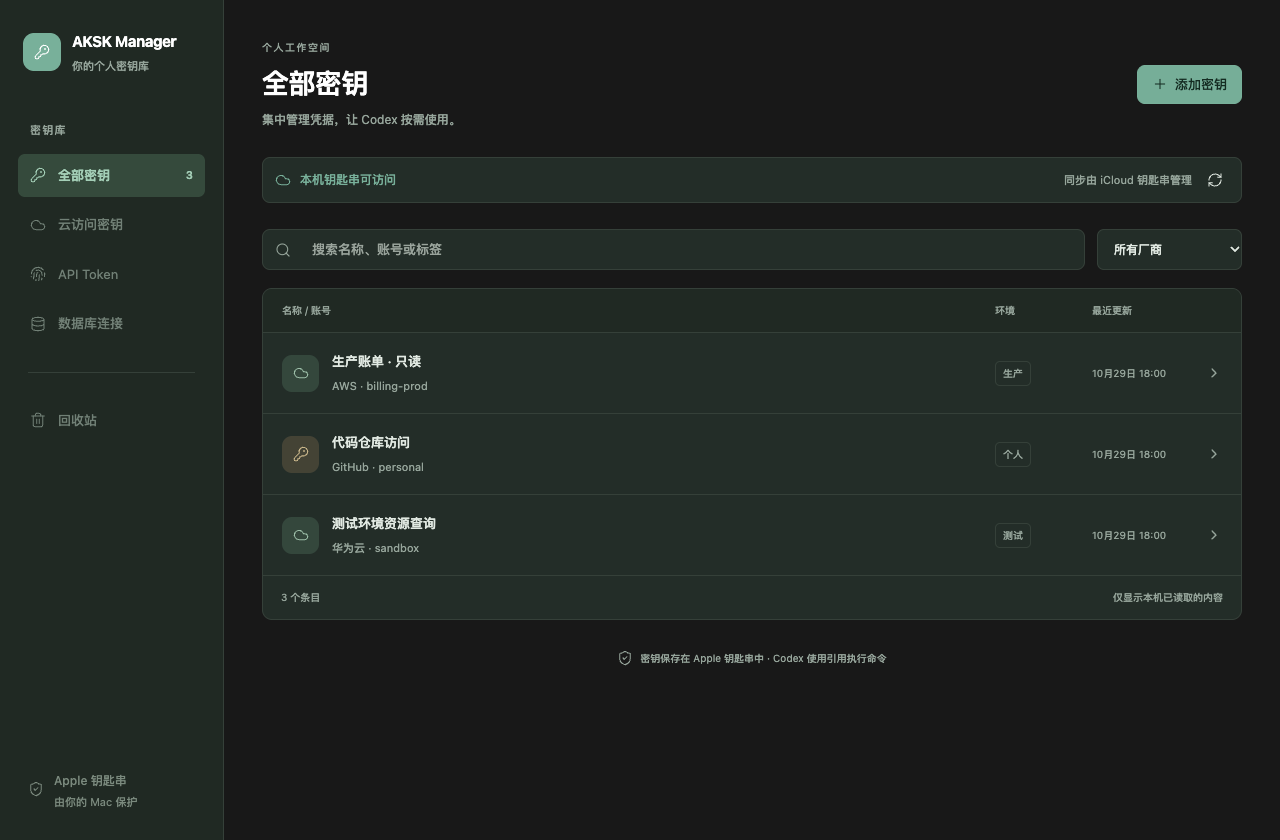
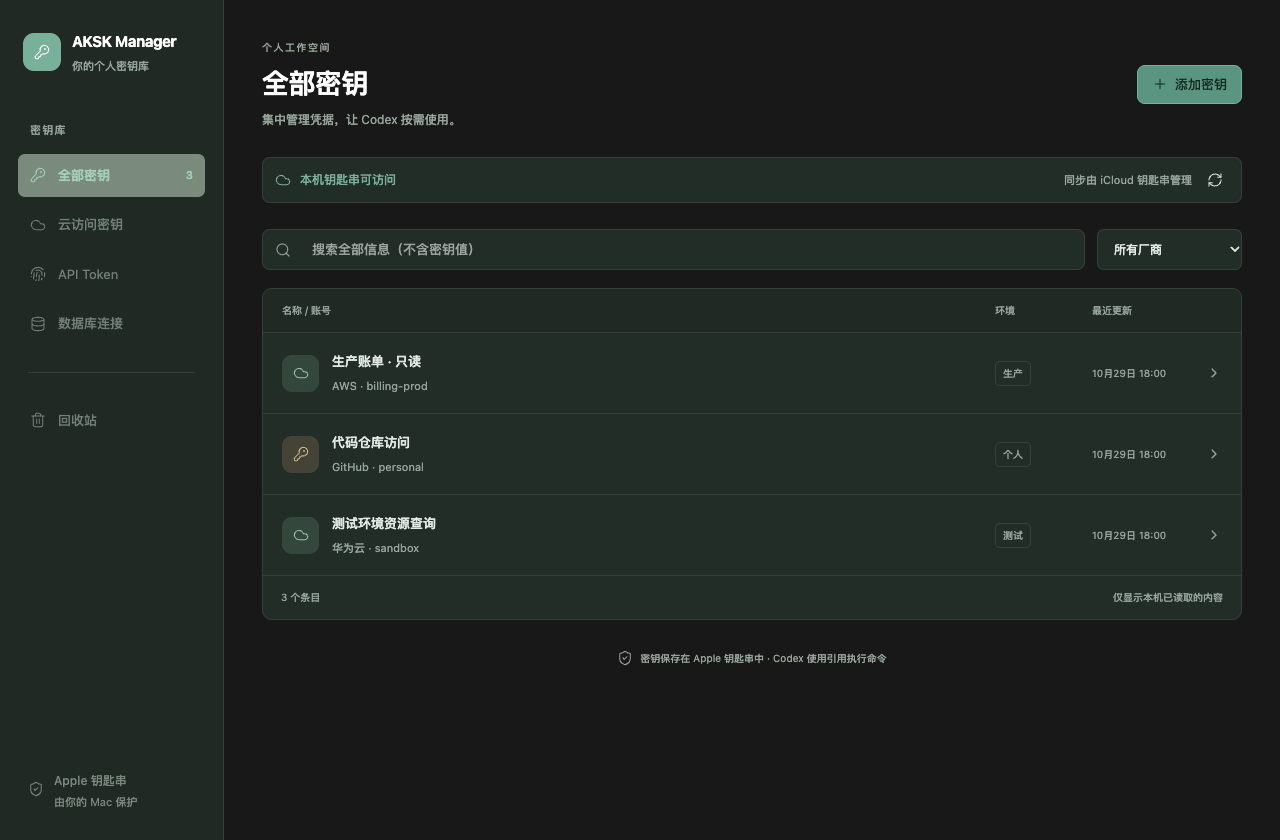
Add comprehensive metadata search

Changed region(s): [[0.0, 0.1857, 0.1875, 0.2476], [0.875, 0.0619, 0.9688, 0.1238], [0.25, 0.2786, 0.375, 0.3095]]

diff --git a/frontend/tests/vault.spec.ts b/frontend/tests/vault.spec.ts
@@ -20,7 +20,8 @@ const fixture = {
 
 async function host(
   page: Page,
-  { empty = false, blocked = false, conflict = false, dark = false } = {},
+  { empty = false, blocked = false, conflict = false, dark = false,
+    searchResults = {} as Record<string, { ids: string[]; delay?: number }> } = {},
 ) {
   await page.route("https://aksk.test/", (route) =>
     route.fulfill({
@@ -30,7 +31,7 @@ async function host(
   );
   await page.goto("https://aksk.test/");
   await page.evaluate(
-    ({ html, fixture, empty, blocked, conflict, dark }) => {
+    ({ html, fixture, empty, blocked, conflict, dark, searchResults }) => {
       const frame = document.querySelector("iframe")!;
       let items: any[] = empty
         ? []
@@ -66,6 +67,7 @@ async function host(
           (window as any).contextLeaks.push(m.params);
         if (m.id === undefined) return;
         let result: any = {};
+        let delay = 0;
         if (m.method === "ui/initialize")
           result = {
             protocolVersion: "2026-01-26",
@@ -91,8 +93,16 @@ async function host(
               };
             else data = { keychain: "available", remote_verified: false };
           }
-          if (name === "ui_list")
+          if (name === "ui_list") {
             data = items.filter((i) => !!i.deletedAt === !!a.trash);
+            if (a.query) {
+              const answer = searchResults[a.query];
+              data = answer
+                ? data.filter((i: any) => answer.ids.includes(i.id))
+                : data.filter((i: any) => JSON.stringify(i).toLowerCase().includes(a.query.toLowerCase()));
+              delay = answer?.delay ?? 0;
+            }
+          }
           if (name === "get_secret_metadata")
             data = items.find((i) => i.id === a.secret_id);
           if (name === "ui_reveal")
@@ -147,14 +157,14 @@ async function host(
               }
             : { content: [], structuredContent: payload };
         }
-        frame.contentWindow!.postMessage(
+        setTimeout(() => frame.contentWindow!.postMessage(
           { jsonrpc: "2.0", id: m.id, result },
           "*",
-        );
+        ), delay);
       });
       frame.srcdoc = html;
     },
-    { html, fixture, empty, blocked, conflict, dark },
+    { html, fixture, empty, blocked, conflict, dark, searchResults },
   );
   const ui = page.frameLocator("iframe");
   await expect(ui.locator(".status-strip")).toContainText(
@@ -321,4 +331,29 @@ test("dark theme follows the host", async ({ page }) => {
   const ui = await host(page, { dark: true });
   await expect(ui.locator("html")).toHaveAttribute("data-theme", "dark");
   await page.screenshot({ path: "../docs/ui-dark.png", fullPage: true });
+});
+
+test("server search handles hidden connection fields and ignores stale responses", async ({ page }) => {
+  const ui = await host(page, { searchResults: {
+    "db.example.invalid": { ids: ["demo-3"], delay: 800 },
+    "备注词": { ids: ["demo-2"] },
+    "synthetic_reader 5432": { ids: ["demo-3"] },
+  } });
+  await ui.getByLabel("搜索密钥").fill("db.example.invalid");
+  await expect.poll(() => page.evaluate(() => (window as any).calls.some(
+    (c: any) => c.name === "ui_list" && c.args.query === "db.example.invalid"))).toBe(true);
+  await ui.getByLabel("搜索密钥").fill("备注词");
+  await expect(ui.locator(".secret-row")).toHaveCount(1);
+  await expect(ui.locator(".secret-row")).toContainText("代码仓库访问");
+  await page.waitForTimeout(1000);
+  await expect(ui.locator(".secret-row")).toContainText("代码仓库访问");
+  await ui.getByLabel("搜索密钥").fill("synthetic_reader 5432");
+  await expect(ui.locator(".secret-row")).toContainText("测试环境资源查询");
+  // Filtering options and library counts still derive from the full list.
+  await expect(ui.getByLabel("筛选厂商").locator("option")).toHaveCount(4);
+  await ui.getByLabel("搜索密钥").fill("");
+  await expect(ui.locator(".secret-row")).toHaveCount(3);
+  expect(await page.evaluate(() => (window as any).contextLeaks)).toEqual([]);
+  expect(await page.evaluate(() => (window as any).calls.some(
+    (c: any) => c.name === "ui_reveal"))).toBe(false);
 });

diff --git a/native/Sources/main.swift b/native/Sources/main.swift
@@ -41,6 +41,32 @@ struct Record: Codable {
   var values: [String: String]
   var updatedAt: String
   var deletedAt: String?
+  func matches(_ query: String, connectionFields: Bool) -> Bool {
+    func normalize(_ text: String) -> String {
+      text.folding(options: [.caseInsensitive, .diacriticInsensitive, .widthInsensitive],
+                   locale: Locale(identifier: "en_US_POSIX"))
+    }
+    let terms = normalize(query).split(whereSeparator: { $0.isWhitespace })
+    if terms.isEmpty { return true }
+    let kinds = ["aksk": "云访问密钥 AK/SK AK SK", "token": "API Token 令牌",
+                 "database": "数据库连接 database"]
+    let labels = ["access_key": "Access Key", "secret_key": "Secret Key",
+                  "session_token": "Session Token", "token": "API Token",
+                  "engine": "数据库类型", "host": "主机", "port": "端口",
+                  "database": "数据库名", "username": "用户名", "password": "密码",
+                  "ssl_mode": "TLS 模式 SSL"]
+    var text = [id, revision, kind, kinds[kind] ?? kind, name, provider, account,
+                environment, notes, updatedAt, deletedAt ?? "", expiresAt ?? ""] + tags
+    for field in values.keys { text += [field, labels[field] ?? field] }
+    // Never create a password/token matching oracle. Connection values stay local.
+    if connectionFields && kind == "database" {
+      for field in ["engine", "host", "port", "database", "username", "ssl_mode"] {
+        if let value = values[field] { text.append(value) }
+      }
+    }
+    let haystack = normalize(text.joined(separator: " "))
+    return terms.allSatisfy { haystack.contains($0) }
+  }
   var metadata: [String: Any] {
     [
       "id": id, "revision": revision, "kind": kind, "name": name, "provider": provider,
@@ -420,14 +446,12 @@ final class Service {
         "keychain": "available", "sync": "managed_by_icloud", "remote_verified": false,
         "version": "0.1.0",
       ]
-    case "list":
+    case "list", "ui_list":
       let trash = p["trash"] as? Bool ?? false
-      let query = (p["query"] as? String ?? "").lowercased()
+      let query = p["query"] as? String ?? ""
       return try store.all().filter {
         ($0.deletedAt != nil) == trash
-          && (query.isEmpty
-            || ([$0.name, $0.provider, $0.account, $0.environment] + $0.tags).joined(separator: " ")
-              .lowercased().contains(query))
+          && $0.matches(query, connectionFields: method == "ui_list")
       }.sorted { $0.name.localizedStandardCompare($1.name) == .orderedAscending }.map(\.metadata)
     case "metadata": return try store.read(required(p, "id")).metadata
     case "save": return try withStoreLock { try save(p, store: store).metadata }

diff --git a/frontend/src/main.tsx b/frontend/src/main.tsx
@@ -74,6 +74,7 @@ function Manager() {
     action: "trash" | "purge";
   } | null>(null);
   const [working, setWorking] = useState(false);
+  const [matchingIds, setMatchingIds] = useState<Set<string> | null>(null);
   const generation = useRef(0);
   async function refresh(targetTrash = trash) {
     const id = ++generation.current;
@@ -82,9 +83,13 @@ function Manager() {
     try {
       await call("ui_status");
       const result = await call<Secret[]>("ui_list", { trash: targetTrash });
+      const matches = query.trim()
+        ? await call<Secret[]>("ui_list", { trash: targetTrash, query })
+        : null;
       if (id !== generation.current) return;
       setAvailable(true);
       setItems(result);
+      setMatchingIds(matches ? new Set(matches.map((i) => i.id)) : null);
       setSelected((old) =>
         old ? (result.find((i) => i.id === old.id) ?? null) : null,
       );
@@ -115,8 +120,13 @@ function Manager() {
     };
   }, []);
   useEffect(() => {
-    if (ready) void refresh(trash);
-  }, [ready, trash]);
+    if (!ready) return;
+    const timer = setTimeout(() => void refresh(trash), query.trim() ? 200 : 0);
+    return () => {
+      clearTimeout(timer);
+      generation.current++;
+    };
+  }, [ready, trash, query]);
   useEffect(() => {
     if (!notice) return;
     const t = setTimeout(() => setNotice(""), 5000);
@@ -128,13 +138,9 @@ function Manager() {
         (i) =>
           (!kind || i.kind === kind) &&
           (!provider || i.provider === provider) &&
-          (!query ||
-            [i.name, i.account, i.environment, i.provider, ...i.tags]
-              .join(" ")
-              .toLowerCase()
-              .includes(query.toLowerCase())),
+          (!matchingIds || matchingIds.has(i.id)),
       ),
-    [items, kind, provider, query],
+    [items, kind, provider, matchingIds],
   );
   async function change(item: Secret, action: "trash" | "restore" | "purge") {
     setWorking(true);
@@ -293,7 +299,8 @@ function Manager() {
             <Search size={17} />
             <input
               aria-label="搜索密钥"
-              placeholder="搜索名称、账号或标签"
+              placeholder="搜索全部信息（不含密钥值）"
+              title="可搜索名称、厂商、账号、环境、标签、备注、类型、字段名及数据库连接信息；多个关键词用空格分隔。"
               value={query}
               onChange={(e) => setQuery(e.target.value)}
             />

diff --git a/tests/test_native.py b/tests/test_native.py
@@ -96,6 +96,34 @@ DB_VALUES = {
 }
 
 
+async def test_search_all_metadata_and_private_connection_fields(native):
+    r = await create(native, kind="database", values=DB_VALUES, notes="Café 值班交接")
+    for query in ["值班交接", "CAFE", "数据库连接", "TLS 模式", "主机", "ssl_mode",
+                  "  EXAMPLE\t数据库\n交接  ", "ＥＸＡＭＰＬＥ", r["id"], r["updatedAt"]]:
+        assert [i["id"] for i in await native.call("list", {"query": query})] == [r["id"]]
+    for field, value in DB_VALUES.items():
+        assert await native.call("list", {"query": value}) == []
+        result = await native.call("ui_list", {"query": value})
+        assert [i["id"] for i in result] == ([] if field == "password" else [r["id"]])
+        assert all(v not in json.dumps(result) for v in DB_VALUES.values())
+    assert await native.call("ui_list", {"query": "postgresql nobody-matches"}) == []
+    assert len(await native.call("ui_list", {"query": "POSTGRESQL synthetic_reader 55432"})) == 1
+    trashed = await native.call("trash", r)
+    assert await native.call("ui_list", {"query": "synthetic-db.internal"}) == []
+    assert len(await native.call("ui_list", {"query": "synthetic-db.internal", "trash": True})) == 1
+    await native.call("restore", trashed)
+    assert len(await native.call("ui_list", {"query": "synthetic-db.internal"})) == 1
+
+
+async def test_search_never_matches_credential_values(native):
+    await create(native)
+    await create(native, kind="aksk", values={"access_key": AK, "secret_key": SK,
+                                             "session_token": "session-sensitive-99881"})
+    for value in [TOKEN, AK, SK, "session-sensitive-99881", "sensitive-9988", "MUST-NOT-APPEAR"]:
+        for method in ["list", "ui_list"]:
+            assert await native.call(method, {"query": value}) == []
+
+
 async def test_database_preservation_injection_and_lifecycle(native):
     r = await create(native, kind="database", values=DB_VALUES)
     assert r["fields"] == sorted(DB_VALUES)

diff --git a/src/aksk_manager/server.py b/src/aksk_manager/server.py
@@ -118,7 +118,11 @@ async def read_resource(uri):
 
 @mcp.tool(annotations=READ)
 async def list_secrets(query: str = "") -> CallToolResult:
-    """Search active secret metadata by name, account, provider, environment or tag. No secret values."""
+    """Search all active metadata including notes, kind, field names, IDs and dates.
+
+    Whitespace-separated terms match across fields, ignoring case, accents and width.
+    Credential and database connection values are not searched or returned.
+    """
     return await invoke("list", {"query": query})
 
 
@@ -164,9 +168,12 @@ async def ui_status() -> CallToolResult:
 
 
 @mcp.tool(annotations=READ, meta=APP_ONLY)
-async def ui_list(trash: bool = False) -> CallToolResult:
-    """App only: list active or trashed credential metadata."""
-    return await invoke("list", {"trash": trash}, private=True)
+async def ui_list(trash: bool = False, query: str = "") -> CallToolResult:
+    """App only: search metadata and non-password database connection fields locally.
+
+    Returns metadata only. Never searches passwords, keys or token values.
+    """
+    return await invoke("ui_list", {"trash": trash, "query": query}, private=True)
 
 
 @mcp.tool(annotations=WRITE, meta=APP_ONLY)

diff --git a/tests/test_mcp.py b/tests/test_mcp.py
@@ -47,6 +47,17 @@ async def test_protocol_tool_call_preserves_private_meta(api, native):
     assert TOKEN not in json.dumps([c.model_dump() for c in response.content])
 
 
+async def test_search_connection_matches_remain_app_only(api, native):
+    r = await create(native, kind="database", values=DB_VALUES)
+    response = await mcp.call_tool("ui_list", {"query": DB_VALUES["host"]})
+    assert [i["id"] for i in response.meta["private"]["data"]] == [r["id"]]
+    assert response.structuredContent is None
+    assert r["id"] not in json.dumps([c.model_dump() for c in response.content])
+    assert all(v not in response.model_dump_json() for v in DB_VALUES.values())
+    assert (await api.list_secrets(DB_VALUES["host"])).structuredContent["data"] == []
+    assert (await api.ui_list(query=DB_VALUES["password"])).meta["private"]["data"] == []
+
+
 async def test_run_tool_returns_safe_completed_result(api, native):
     r = await create(native)
     result = await api.run_with_secrets(

diff --git a/scripts/smoke-keychain.py b/scripts/smoke-keychain.py
@@ -38,6 +38,13 @@ async def main(kind="token"):
         )
         revealed = await bridge.call("reveal", {"id": record["id"], "revision": record["revision"]})
         assert revealed["values"] == values
+        if kind == "database":
+            query = record["name"] + " " + values["host"] + " " + values["username"]
+            matches = await independent.call("ui_list", {"query": query})
+            assert [item["id"] for item in matches] == [record["id"]]
+            assert await independent.call("list", {"query": query}) == []
+        assert await independent.call("ui_list", {"query": record["name"] + " " + value}) == []
+        print("PASS: 本地搜索、连接字段隔离和秘密值排除。")
         updated = await bridge.call("save", {**record, "name": record["name"] + " updated"})
         readback = await independent.call("metadata", {"id": updated["id"]})
         assert readback["revision"] == updated["revision"]

diff --git a/docs/api.md b/docs/api.md
@@ -37,6 +37,12 @@
 
 ## 仅应用可见
 
+`list_secrets(query)` 搜索全部公开元数据：名称、厂商、账号、环境、标签、备注、类型、字段名称、ID 和日期。
+`ui_list(trash=false, query="")` 另外支持数据库类型、主机、端口、数据库名、用户名和 TLS 模式的值；
+匹配在本地组件内完成，只返回匹配条目的元数据，不返回连接字段或搜索索引。
+两者均忽略大小写、全半角与重音；空白分隔的关键词必须全部匹配，可以跨字段匹配。
+密码、Access Key、Secret Key、Session Token、API Token 的值不参与搜索。
+
 `ui_status`、`ui_list`、`ui_save`、`ui_reveal`、`ui_trash`、`ui_restore`、`ui_purge`
 均声明 `ui.visibility: ["app"]`。
 结果位于 `_meta.private`，不放入 `content` 或 `structuredContent`。明文只通过 `ui_reveal` 返回给界面。
